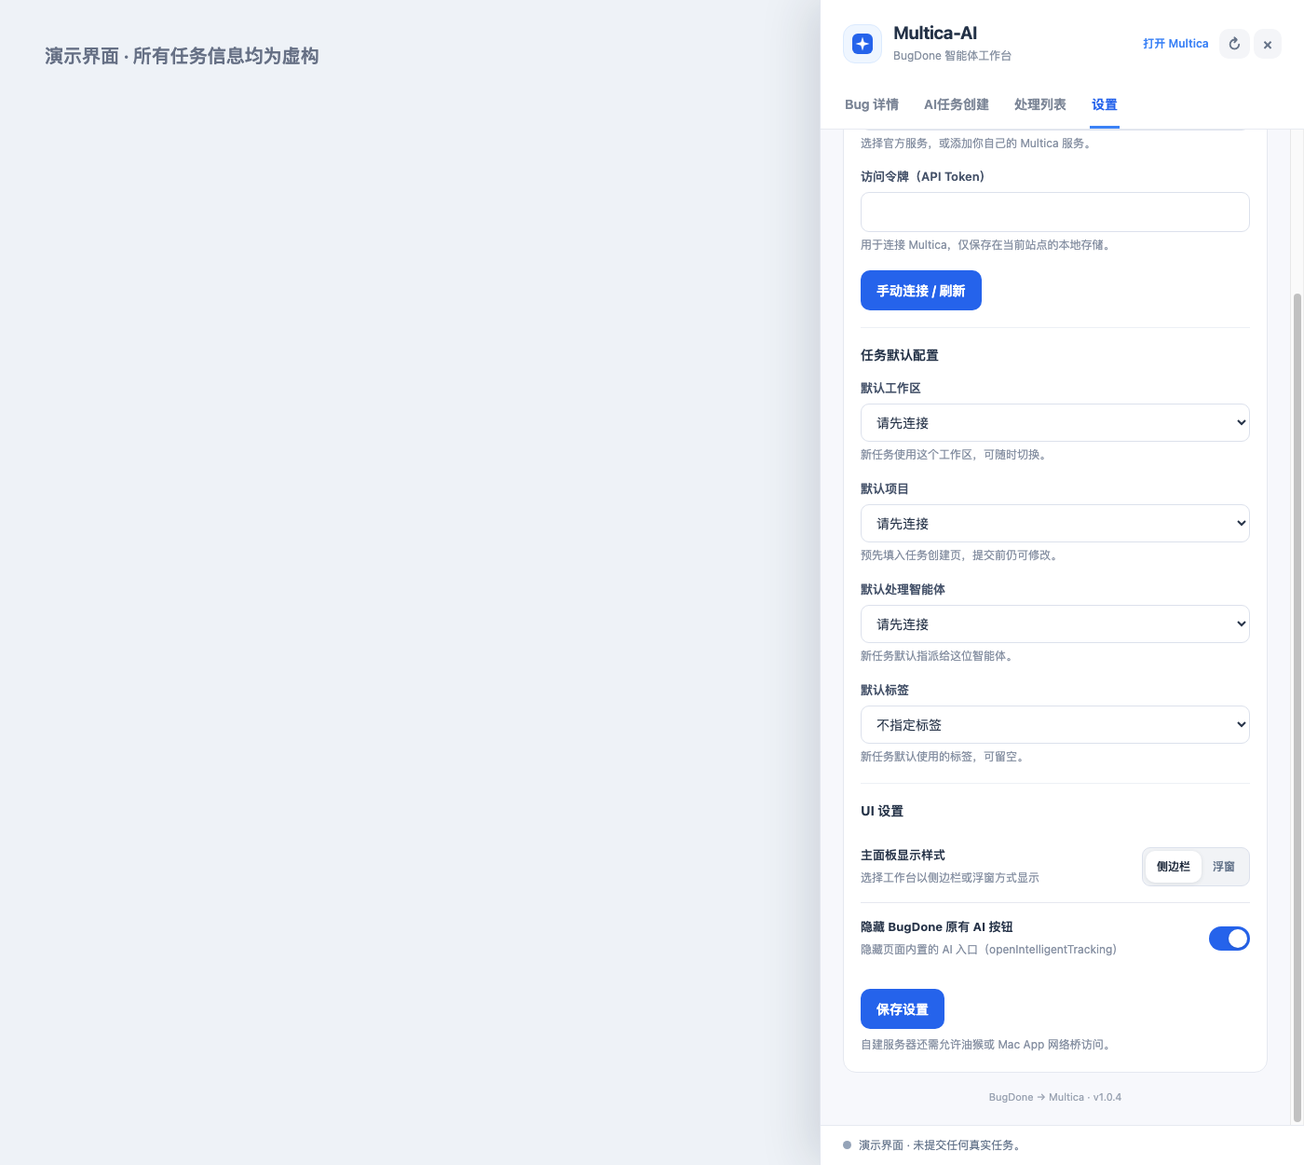
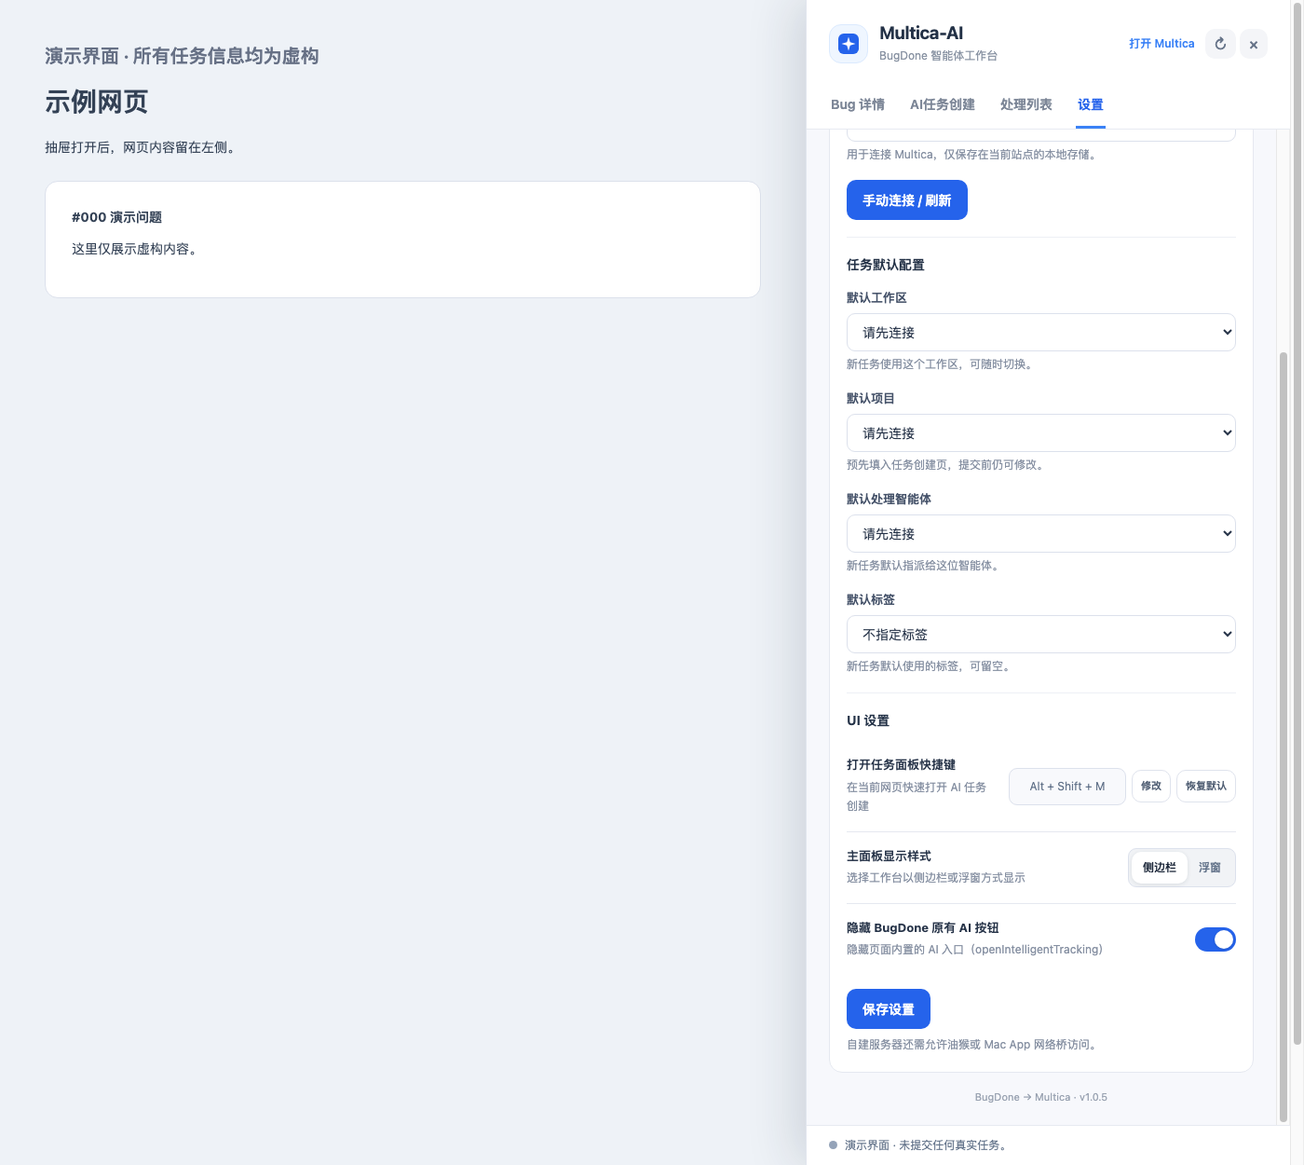
feat: push page for sidebar drawer and configure shortcut

diff --git a/bugdone-multica.user.js b/bugdone-multica.user.js
@@ -1,7 +1,7 @@
 // ==UserScript==
 // @name         BugDone 接入 Multica
 // @namespace    local.bugdone.multica
-// @version      1.0.4
+// @version      1.0.5
 // @description  BugDone桥接Multica智能体
 // @updateURL    https://raw.githubusercontent.com/bosong/bugdone-multica-bridge/main/bugdone-multica.user.js
 // @downloadURL  https://raw.githubusercontent.com/bosong/bugdone-multica-bridge/main/bugdone-multica.user.js
@@ -218,9 +218,16 @@
     set(key, { id: issue.id });
     return { issue, existing: r.status === 409 };
   }
+  const DEFAULT_SHORTCUT = 'Alt+Shift+M';
+  function shortcutFromEvent(event) {
+    const key = String(event.key || '').toUpperCase();
+    if (!/^[A-Z0-9]$/.test(key) || !(event.altKey || event.ctrlKey || event.metaKey)) return '';
+    return [event.ctrlKey && 'Ctrl', event.altKey && 'Alt', event.metaKey && 'Meta', event.shiftKey && 'Shift', key].filter(Boolean).join('+');
+  }
+  function shortcutMatches(event, shortcut) { return !!shortcut && shortcutFromEvent(event) === shortcut; }
   // 调试桩：仅打印阶段、数量和 HTTP 状态，不打印令牌、请求头或 Bug 正文。
   const DEBUG = true;
-  const SCRIPT_VERSION = '1.0.4';
+  const SCRIPT_VERSION = '1.0.5';
   function debug(stage, data = {}, level = 'info') {
     if (DEBUG) console[level](`[BugDone→Multica] ${stage}`, data);
   }
@@ -257,12 +264,14 @@
   let config = { api: 'https://api.multica.ai', workspace: '', workspaceAlias: '', token: '', agent: '', defaultAgent: '', project: '', projectAlias: '', label: '' };
   config.hideNativeAI = true;
   config.displayMode = 'floating';
+  config.shortcut = DEFAULT_SHORTCUT;
   let submittedBugs = [];
   const processingStates = new WeakMap(), processingRows = new Map();
   let processingRefreshPromise = null, processingRefreshAt = 0, processingRefreshContext = '';
   let launchPosition = readValue('launchPosition', null);
   config = { ...config, ...(readValue('config', config) || {}) };
   if (!['floating', 'sidebar'].includes(config.displayMode)) config.displayMode = 'floating';
+  if (!/^(?=.*(?:Ctrl|Alt|Meta))(?:Ctrl\+)?(?:Alt\+)?(?:Meta\+)?(?:Shift\+)?[A-Z0-9]$/.test(config.shortcut || '')) config.shortcut = DEFAULT_SHORTCUT;
   let connectionPhase = 'idle';
   function setConnectionPhase(phase, expectedTag) {
     if (expectedTag && root && expectedTag !== connectionCacheTag($('api').value, $('token').value)) return;
@@ -303,11 +312,53 @@
     setTimeout(() => observer.disconnect(), 15000);
   }
   const $ = id => root.getElementById(id);
+  let pageLayoutSnapshot = null, layoutRestoreTimer = 0, panelCloseTimer = 0;
+  function syncPageLayout(open) {
+    const html = document.documentElement;
+    const shift = open && config.displayMode === 'sidebar' && window.innerWidth > 760
+      ? Math.min(520, window.innerWidth - 320) : 0;
+    clearTimeout(layoutRestoreTimer);
+    if (shift) {
+      if (!pageLayoutSnapshot) pageLayoutSnapshot = { width: html.style.width, transition: html.style.transition };
+      html.style.transition = pageLayoutSnapshot.transition ? `${pageLayoutSnapshot.transition}, width .26s ease` : 'width .26s ease';
+      html.style.width = `calc(100% - ${shift}px)`;
+    } else if (pageLayoutSnapshot) {
+      html.style.width = pageLayoutSnapshot.width;
+      layoutRestoreTimer = setTimeout(() => {
+        if (!pageLayoutSnapshot) return;
+        html.style.transition = pageLayoutSnapshot.transition;
+        pageLayoutSnapshot = null;
+      }, 270);
+    }
+  }
+  function openPanel() {
+    const panel = $('panel');
+    clearTimeout(panelCloseTimer);
+    panel.hidden = false;
+    $('launch').setAttribute('aria-expanded', 'true');
+    syncPageLayout(true);
+    if (config.displayMode === 'sidebar') {
+      panel.dataset.open = 'false';
+      panel.getBoundingClientRect();
+      requestAnimationFrame(() => { if (!panel.hidden) panel.dataset.open = 'true'; });
+    }
+  }
+  function closePanel() {
+    const panel = $('panel');
+    $('launch').setAttribute('aria-expanded', 'false');
+    syncPageLayout(false);
+    if (config.displayMode === 'sidebar' && !panel.hidden) {
+      panel.dataset.open = 'false';
+      panelCloseTimer = setTimeout(() => { if (panel.dataset.open !== 'true') panel.hidden = true; }, 270);
+    } else panel.hidden = true;
+  }
   function applyPanelMode(mode) {
     config.displayMode = mode === 'sidebar' ? 'sidebar' : 'floating';
     $('panel').dataset.display = config.displayMode;
     $('mode-sidebar').setAttribute('aria-pressed', String(config.displayMode === 'sidebar'));
     $('mode-floating').setAttribute('aria-pressed', String(config.displayMode === 'floating'));
+    $('panel').dataset.open = String(!$('panel').hidden);
+    syncPageLayout(!$('panel').hidden);
   }
   function collect(data) {
     try {
@@ -418,7 +469,7 @@
   }
   function message(text, kind = 'info') { const el = $('message'); el.textContent = text; el.className = `status-${kind}`; }
   function settings() {
-    return validateConfig({ api: $('api').value.trim(), workspace: $('workspace').value, workspaceAlias: $('workspace').selectedOptions[0]?.textContent || '', token: $('token').value, project: $('default-project').value, projectAlias: $('default-project').selectedOptions[0]?.textContent || '', agent: $('agent').value, defaultAgent: $('default-agent').value, label: $('default-label').value, hideNativeAI: $('hide-native-ai').checked, displayMode: config.displayMode });
+    return validateConfig({ api: $('api').value.trim(), workspace: $('workspace').value, workspaceAlias: $('workspace').selectedOptions[0]?.textContent || '', token: $('token').value, project: $('default-project').value, projectAlias: $('default-project').selectedOptions[0]?.textContent || '', agent: $('agent').value, defaultAgent: $('default-agent').value, label: $('default-label').value, hideNativeAI: $('hide-native-ai').checked, displayMode: config.displayMode, shortcut: config.shortcut });
   }
   function request(c) {
     return (method, path, body) => new Promise((resolve, reject) => {
@@ -796,12 +847,14 @@
       .quick-card{padding:0;overflow:hidden}.quick-head,.quick-foot{display:flex;align-items:center;justify-content:space-between;padding:16px 18px;border-bottom:1px solid #e5e8f0}.quick-head strong{font-size:16px;color:#536078}.quick-head small{color:#9ca3af}.quick-body{padding:18px}.quick-body .task-title{font-size:23px;width:100%;border:0;border-bottom:1px solid #dce1ec;border-radius:0;box-shadow:none;padding-bottom:16px;margin-bottom:8px}.quick-body .task-title:focus{border-bottom-color:#60a5fa}.quick-body .task-description{min-height:205px;width:100%;border:0;box-shadow:none}.quick-source{display:flex;justify-content:space-between;gap:10px;padding:12px;border:1px solid #e5e8f0;background:#f6f7f9;border-radius:9px;font-size:12px;color:#667085}.quick-source strong{color:#344054}.quick-assignee{display:flex;align-items:center;gap:10px;margin:14px 0;color:#667085}.quick-avatar{display:grid;place-items:center;width:31px;height:31px;border-radius:50%;background:#eceff2;color:#4b5563;font-weight:700}.quick-options{display:flex;flex-wrap:wrap;gap:8px}.quick-options select,.quick-options .more-button{width:auto;max-width:230px;border-radius:24px;padding:9px 12px;font-size:12px}.quick-dates{margin-top:14px;border-top:1px solid #edf0f5;padding-top:12px}.quick-dates summary{font-size:12px;color:#667085;cursor:pointer}.quick-foot{border-top:1px solid #e5e8f0;border-bottom:0;gap:8px;flex-wrap:wrap}.quick-foot label{display:flex;align-items:center;gap:6px;margin:0;font-weight:400;font-size:12px}.quick-foot input{width:17px;height:17px;accent-color:#2563eb}.quick-foot .submit{width:auto;margin:0}.quick-foot .text-button{font-size:20px}.custom-server-panel{margin-top:10px;padding:12px;border:1px solid #e5e8f0;border-radius:9px;background:#f8f9fc}
       header .brand{min-width:0;flex:1}header .header-actions{flex:none;gap:4px}header .header-actions .icon-button{font-size:16px;padding:7px 9px}header .header-actions .text-button{padding:4px 6px}
       #view-multica{height:100%;min-height:max-content;display:flex;flex-direction:column}#view-multica .quick-card{flex:1 0 auto;display:flex;flex-direction:column;margin-bottom:0}#view-multica .quick-body{flex:1 0 auto;display:flex;flex-direction:column}#view-multica .task-description{flex:1 0 260px;height:auto;min-height:260px}
-      #panel[data-display="sidebar"]{position:fixed;top:0;right:0;bottom:0;left:auto;width:min(520px,100vw);height:100dvh;border-radius:0;border-top:0;border-right:0;border-bottom:0;box-shadow:-12px 0 48px #1e293b26}
+      #panel[data-display="sidebar"]{position:fixed;top:0;right:0;bottom:0;left:auto;width:min(520px,calc(100vw - 320px));height:100dvh;border-radius:0;border-top:0;border-right:0;border-bottom:0;box-shadow:-12px 0 48px #1e293b26;transform:translateX(102%);transition:transform .26s ease}
+      #panel[data-display="sidebar"][data-open="true"]{transform:translateX(0)}
+      .shortcut-control{display:flex;align-items:center;justify-content:flex-end;gap:6px;flex-wrap:wrap}.shortcut-control input{width:126px;font-size:12px;text-align:center}.shortcut-control button{padding:8px 9px;font-size:11px}
       .setting-row{display:flex;align-items:center;justify-content:space-between;gap:16px;padding:16px 0;border-bottom:1px solid #e5e8f0}.setting-row:last-child{border-bottom:0}.setting-copy{min-width:0}.setting-copy strong{display:block;font-size:13px;color:#273449}.setting-copy small{display:block;margin-top:4px}.setting-control{flex:none}.switch{position:relative;display:inline-flex;align-items:center;width:44px;height:26px;margin:0;cursor:pointer}.switch input{position:absolute;opacity:0;width:100%;height:100%;margin:0;cursor:pointer}.switch-track{width:44px;height:26px;border-radius:20px;background:#cbd5e1;transition:background .15s}.switch-track::after{content:"";display:block;width:20px;height:20px;margin:3px;border-radius:50%;background:#fff;box-shadow:0 1px 3px #1e293b33;transition:transform .15s}.switch input:checked+.switch-track{background:#2563eb}.switch input:checked+.switch-track::after{transform:translateX(18px)}.switch input:focus-visible+.switch-track{outline:3px solid #93c5fd;outline-offset:2px}.segmented{display:flex;padding:3px;border:1px solid #dce1ec;border-radius:9px;background:#f1f3f6}.segmented button{padding:8px 12px;border:0;background:transparent;color:#64748b;font-size:12px;white-space:nowrap}.segmented button:hover{background:#e5eaf2}.segmented button[aria-pressed="true"]{background:#fff;color:#1e293b;box-shadow:0 1px 4px #1e293b1c}.settings-group>.hint{margin:0 0 4px}.settings-group .field>.hint{margin:4px 0 0}
       #task-extras>summary{display:none}.quick-foot #submit{margin-left:auto}.quick-source #task-source{overflow:hidden;text-overflow:ellipsis;white-space:nowrap;max-width:50%}.quick-options select:hover{border-color:#b7becb}.quick-body .task-description:focus,.quick-body .task-title:focus{box-shadow:none}
       #count{margin:0 0 14px;font-size:12px;color:#8290a5}#warning{margin:10px 0 0;font-size:12px;line-height:1.7;color:#896a31}#handoff-title{margin:0;color:#334155;font-weight:600;overflow-wrap:anywhere}#handoff-meta{margin:8px 0 0}.target{display:grid;gap:4px;overflow-wrap:anywhere}.target small{font-size:11px;text-transform:uppercase;letter-spacing:.8px}.target strong{font-weight:500;font-size:13px}.divider{height:1px;background:#edf0f5;margin:14px 0}.check{display:flex;align-items:flex-start;gap:9px;font-weight:400;line-height:1.7;margin-top:17px}.check input{width:16px;height:16px;flex:none;margin:3px 0;accent-color:#3b82f6}.check span{font-size:12px;color:#66758b}.submit{width:100%;margin-top:16px}
       footer{flex:none;padding:12px 24px;background:#fff;border-top:1px solid #e7eaf1}#message{white-space:pre-wrap;margin:0;font-size:12px;color:#64748b;overflow-wrap:anywhere;max-height:110px;overflow:auto;display:flex;align-items:flex-start;gap:8px}#message::before{content:"";width:9px;height:9px;flex:none;margin-top:4px;border-radius:50%;background:#94a3b8}.status-success::before{background:#22c55e!important}.status-warning::before{background:#eab308!important}.status-error::before{background:#ef4444!important}details summary{cursor:pointer;font-size:13px;font-weight:600;color:#536078}details textarea{margin-top:12px}.version{font-size:11px;color:#9aa3b2;text-align:center;margin:18px 0 0}
-      @media(max-width:520px){#panel{right:8px;top:8px;bottom:76px;width:calc(100vw - 16px);border-radius:15px}#panel[data-display="sidebar"]{top:0;right:0;bottom:0;width:100vw;height:100dvh;border-radius:0}header{padding:16px}.tabs{padding:0 16px;gap:22px;overflow-x:auto}.content{padding:16px}footer{padding:12px 16px}.card{padding:14px}.setting-row{align-items:flex-start}.setting-control{align-self:center}#launch{right:12px;bottom:16px}}
+      @media(max-width:760px){#panel[data-display="sidebar"]{width:min(520px,100vw)}}@media(max-width:520px){#panel{right:8px;top:8px;bottom:76px;width:calc(100vw - 16px);border-radius:15px}#panel[data-display="sidebar"]{top:0;right:0;bottom:0;width:100vw;height:100dvh;border-radius:0}header{padding:16px}.tabs{padding:0 16px;gap:22px;overflow-x:auto}.content{padding:16px}footer{padding:12px 16px}.card{padding:14px}.setting-row{align-items:flex-start}.setting-control{align-self:center}#launch{right:12px;bottom:16px}}
       </style>
       <div id="success" class="success" hidden role="status" aria-live="polite"><span class="success-mark">✓</span><div><strong>创建成功</strong><span class="success-copy"></span></div></div>
       <button id="launch" aria-expanded="false" aria-controls="panel"><img src="/Templates/Default/Images/ai.webp" alt=""><span class="launch-text">Multica-AI · 未配置</span><span class="status-dot" aria-hidden="true"></span></button>
@@ -833,7 +886,7 @@
             <div class="section-intro"><div><div class="eyebrow">PREFERENCES</div><h3>设置</h3></div></div>
             <div class="card"><div class="settings-group"><h4>基础配置</h4><div class="field"><label for="api">API 服务根地址</label><select id="api"></select><p class="hint">选择官方服务，或添加你自己的 Multica 服务。</p><div id="custom-server-panel" class="custom-server-panel" hidden><label for="custom-api">添加自建服务器</label><div class="inline-control"><input id="custom-api" type="url" placeholder="https://your-multica.example"><button id="add-api" class="secondary">添加</button></div></div></div><div class="field"><label for="token">访问令牌（API Token）</label><input id="token" type="password" autocomplete="off"><p class="hint">用于连接 Multica，仅保存在当前站点的本地存储。</p></div><div class="row"><button id="connect" data-action>手动连接 / 刷新</button></div></div>
               <div class="settings-group"><h4>任务默认配置</h4><div class="field"><label for="workspace">默认工作区</label><select id="workspace"><option value="">请先连接</option></select><p class="hint">新任务使用这个工作区，可随时切换。</p></div><div class="field"><label for="default-project">默认项目</label><select id="default-project"><option value="">请先连接</option></select><p class="hint">预先填入任务创建页，提交前仍可修改。</p></div><div class="field"><label for="default-agent">默认处理智能体</label><select id="default-agent"><option value="">请先连接</option></select><p class="hint">新任务默认指派给这位智能体。</p></div><div class="field"><label for="default-label">默认标签</label><select id="default-label"><option value="">不指定标签</option></select><p class="hint">新任务默认使用的标签，可留空。</p></div></div>
-              <div class="settings-group"><h4>UI 设置</h4><div class="setting-row"><div class="setting-copy"><strong>主面板显示样式</strong><small>选择工作台以侧边栏或浮窗方式显示</small></div><div class="setting-control segmented" role="group" aria-label="主面板显示样式"><button id="mode-sidebar" type="button" aria-pressed="false">侧边栏</button><button id="mode-floating" type="button" aria-pressed="true">浮窗</button></div></div><div class="setting-row"><div class="setting-copy"><strong>隐藏 BugDone 原有 AI 按钮</strong><small>隐藏页面内置的 AI 入口（openIntelligentTracking）</small></div><label class="switch setting-control" aria-label="隐藏 BugDone 原有 AI 按钮"><input type="checkbox" id="hide-native-ai"><span class="switch-track" aria-hidden="true"></span></label></div></div><div class="row"><button id="save" data-action>保存设置</button></div><p class="hint">自建服务器还需允许油猴或 Mac App 网络桥访问。</p></div>
+              <div class="settings-group"><h4>UI 设置</h4><div class="setting-row"><div class="setting-copy"><strong>打开任务面板快捷键</strong><small>在当前网页快速打开 AI 任务创建</small></div><div class="setting-control shortcut-control"><input id="shortcut" type="text" readonly aria-label="打开任务面板快捷键"><button id="edit-shortcut" class="secondary" type="button">修改</button><button id="reset-shortcut" class="secondary" type="button">恢复默认</button></div></div><div class="setting-row"><div class="setting-copy"><strong>主面板显示样式</strong><small>选择工作台以侧边栏或浮窗方式显示</small></div><div class="setting-control segmented" role="group" aria-label="主面板显示样式"><button id="mode-sidebar" type="button" aria-pressed="false">侧边栏</button><button id="mode-floating" type="button" aria-pressed="true">浮窗</button></div></div><div class="setting-row"><div class="setting-copy"><strong>隐藏 BugDone 原有 AI 按钮</strong><small>隐藏页面内置的 AI 入口（openIntelligentTracking）</small></div><label class="switch setting-control" aria-label="隐藏 BugDone 原有 AI 按钮"><input type="checkbox" id="hide-native-ai"><span class="switch-track" aria-hidden="true"></span></label></div></div><div class="row"><button id="save" data-action>保存设置</button></div><p class="hint">自建服务器还需允许油猴或 Mac App 网络桥访问。</p></div>
             <p class="version">BugDone → Multica · v${SCRIPT_VERSION}</p>
           </section>
           <section id="view-processing" role="tabpanel" aria-labelledby="tab-processing" hidden>
@@ -855,6 +908,7 @@
     fillSelect('task-label', catalog.labels || [], config.label, '无标签');
     $('hide-native-ai').checked = config.hideNativeAI !== false;
     applyPanelMode(config.displayMode);
+    $('shortcut').value = config.shortcut.replaceAll('+', ' + ');
     const launch = $('launch');
     if (launchPosition && Number.isFinite(Number(launchPosition.left)) && Number.isFinite(Number(launchPosition.top))) {
       launch.style.left = `${Number(launchPosition.left)}px`; launch.style.top = `${Number(launchPosition.top)}px`; launch.style.right = 'auto'; launch.style.bottom = 'auto';
@@ -878,8 +932,9 @@
       if (drag.moved) { suppressLaunchClick = true; try { writeValue('launchPosition', { left: launch.getBoundingClientRect().left, top: launch.getBoundingClientRect().top }); } catch (_) {} setTimeout(() => { suppressLaunchClick = false; }, 0); }
       drag = null;
     });
-    launch.onclick = () => { if (suppressLaunchClick) return; $('panel').hidden = !$('panel').hidden; launch.setAttribute('aria-expanded', String(!$('panel').hidden)); if (!$('panel').hidden) root.querySelector('[role=tab][aria-selected=true]').focus(); };
-    $('close').onclick = () => { $('panel').hidden = true; $('launch').setAttribute('aria-expanded', 'false'); $('launch').focus(); };
+    launch.onclick = () => { if (suppressLaunchClick) return; if (launch.getAttribute('aria-expanded') === 'true') closePanel(); else { openPanel(); root.querySelector('[role=tab][aria-selected=true]').focus(); } };
+    $('close').onclick = () => { closePanel(); $('launch').focus(); };
+    window.addEventListener('resize', () => syncPageLayout($('launch').getAttribute('aria-expanded') === 'true'));
     $('panel').addEventListener('keydown', e => { if (e.key === 'Escape') { e.stopPropagation(); $('close').click(); } });
     const tabs = [...root.querySelectorAll('[role="tab"]')];
     tabs.forEach((tab, index) => {
@@ -895,10 +950,25 @@
     });
     $('next').onclick = () => { $('task-title').value = $('title').value; $('task-description').value = $('description').value; $('task-source').textContent = bugs.get($('bug').value)?.sourceUrl || location.href; switchTab('multica', true); };
     $('task-more').onclick = () => { $('task-extras').open = !$('task-extras').open; };
+    let capturingShortcut = false;
+    $('edit-shortcut').onclick = () => { capturingShortcut = true; $('shortcut').value = '请按快捷键…'; $('shortcut').focus(); };
+    $('shortcut').onkeydown = event => {
+      event.stopPropagation();
+      if (!capturingShortcut) return;
+      event.preventDefault();
+      if (event.key === 'Escape') { capturingShortcut = false; $('shortcut').value = config.shortcut.replaceAll('+', ' + '); return; }
+      const shortcut = shortcutFromEvent(event);
+      if (!shortcut) { message('请按 Ctrl、Alt 或 Command，加字母或数字键。', 'warning'); return; }
+      config.shortcut = shortcut;
+      capturingShortcut = false;
+      $('shortcut').value = shortcut.replaceAll('+', ' + ');
+      writeValue('config', { ...config });
+      message(`快捷键已保存：${$('shortcut').value}`, 'success');
+    };
+    $('shortcut').onblur = () => { if (capturingShortcut) { capturingShortcut = false; $('shortcut').value = config.shortcut.replaceAll('+', ' + '); } };
+    $('reset-shortcut').onclick = () => { capturingShortcut = false; config.shortcut = DEFAULT_SHORTCUT; $('shortcut').value = DEFAULT_SHORTCUT.replaceAll('+', ' + '); writeValue('config', { ...config }); message('快捷键已恢复默认。', 'success'); };
     document.addEventListener('keydown', event => {
-      if (event.altKey && event.shiftKey && event.key.toLowerCase() === 'm') {
-        event.preventDefault(); $('panel').hidden = false; $('launch').setAttribute('aria-expanded', 'true'); switchTab('multica', true);
-      }
+      if (shortcutMatches(event, config.shortcut)) { event.preventDefault(); openPanel(); switchTab('multica', true); }
     });
     $('task-attachments').onclick = () => switchTab('bug', true);
     $('refresh-processing').onclick = () => { void refreshProcessingStatuses(true); };

diff --git a/README.md b/README.md
@@ -6,11 +6,11 @@
 
 ![侧边栏与 UI 设置预览](./assets/sidebar-preview.png)
 
-*界面预览由当前脚本生成。任务标题、描述、项目、智能体和来源链接均为虚构演示数据。设置中可切换侧边栏与浮窗模式。*
+*界面预览由当前脚本生成。任务标题、描述、项目、智能体和来源链接均为虚构演示数据。设置中可切换侧边栏抽屉与浮窗模式；桌面宽度下，抽屉打开时会收窄网页内容，关闭后恢复。打开任务面板的快捷键默认为 Alt + Shift + M，可在 UI 设置中修改或恢复默认。*
 
 ## 安装
 
-1. 从 [脚本安装地址](https://raw.githubusercontent.com/bosong/bugdone-multica-bridge/main/bugdone-multica.user.js) 安装 v1.0.4 到 Tampermonkey，打开并登录 BugDone。若已安装的旧版不含 `@updateURL`，需手动安装一次；之后可检查更新。
+1. 从 [脚本安装地址](https://raw.githubusercontent.com/bosong/bugdone-multica-bridge/main/bugdone-multica.user.js) 安装 v1.0.5 到 Tampermonkey，打开并登录 BugDone。若已安装的旧版不含 `@updateURL`，需手动安装一次；之后可检查更新。
 2. 打开某个 Bug 详情，点击右下角 **Multica-AI** 入口按钮；按钮文字会显示当前连接状态。
 3. 在设置的 API 服务下拉框中选择官方服务，或选择“添加自建服务器”后填写地址；再填写 API Token。脚本会自动读取并缓存工作区、项目、智能体和标签。以后启动直接恢复缓存，只有缓存缺失、Token 变化或手动刷新时才请求这些列表。
 4. 在 Bug 详情核对捕获内容，点击 **下一步：AI任务创建**，编辑任务标题、描述、状态、优先级、智能体、项目、标签或有效日期，然后创建任务。第一栏生成的标题以 `[BugDone] #编号` 开头，并在末尾带有用于查重的 Bug ID 标记。第二栏显示的标题和描述会原样提交；若删掉标题中的查重标记，脚本会阻止提交并提示重新生成。
